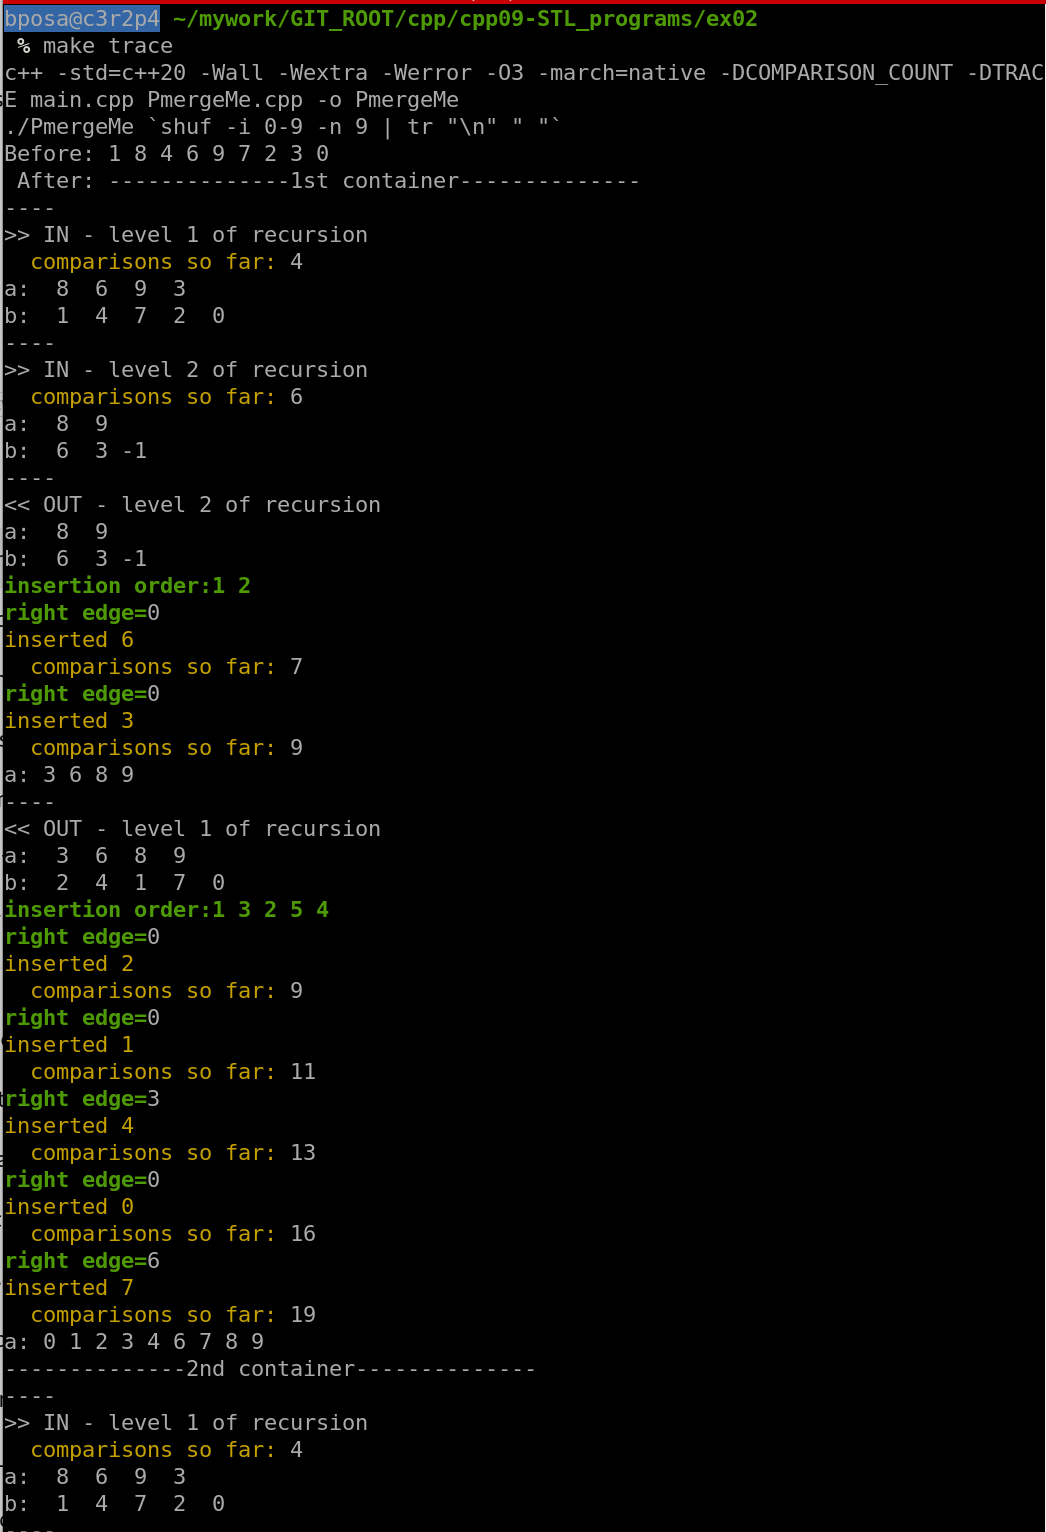
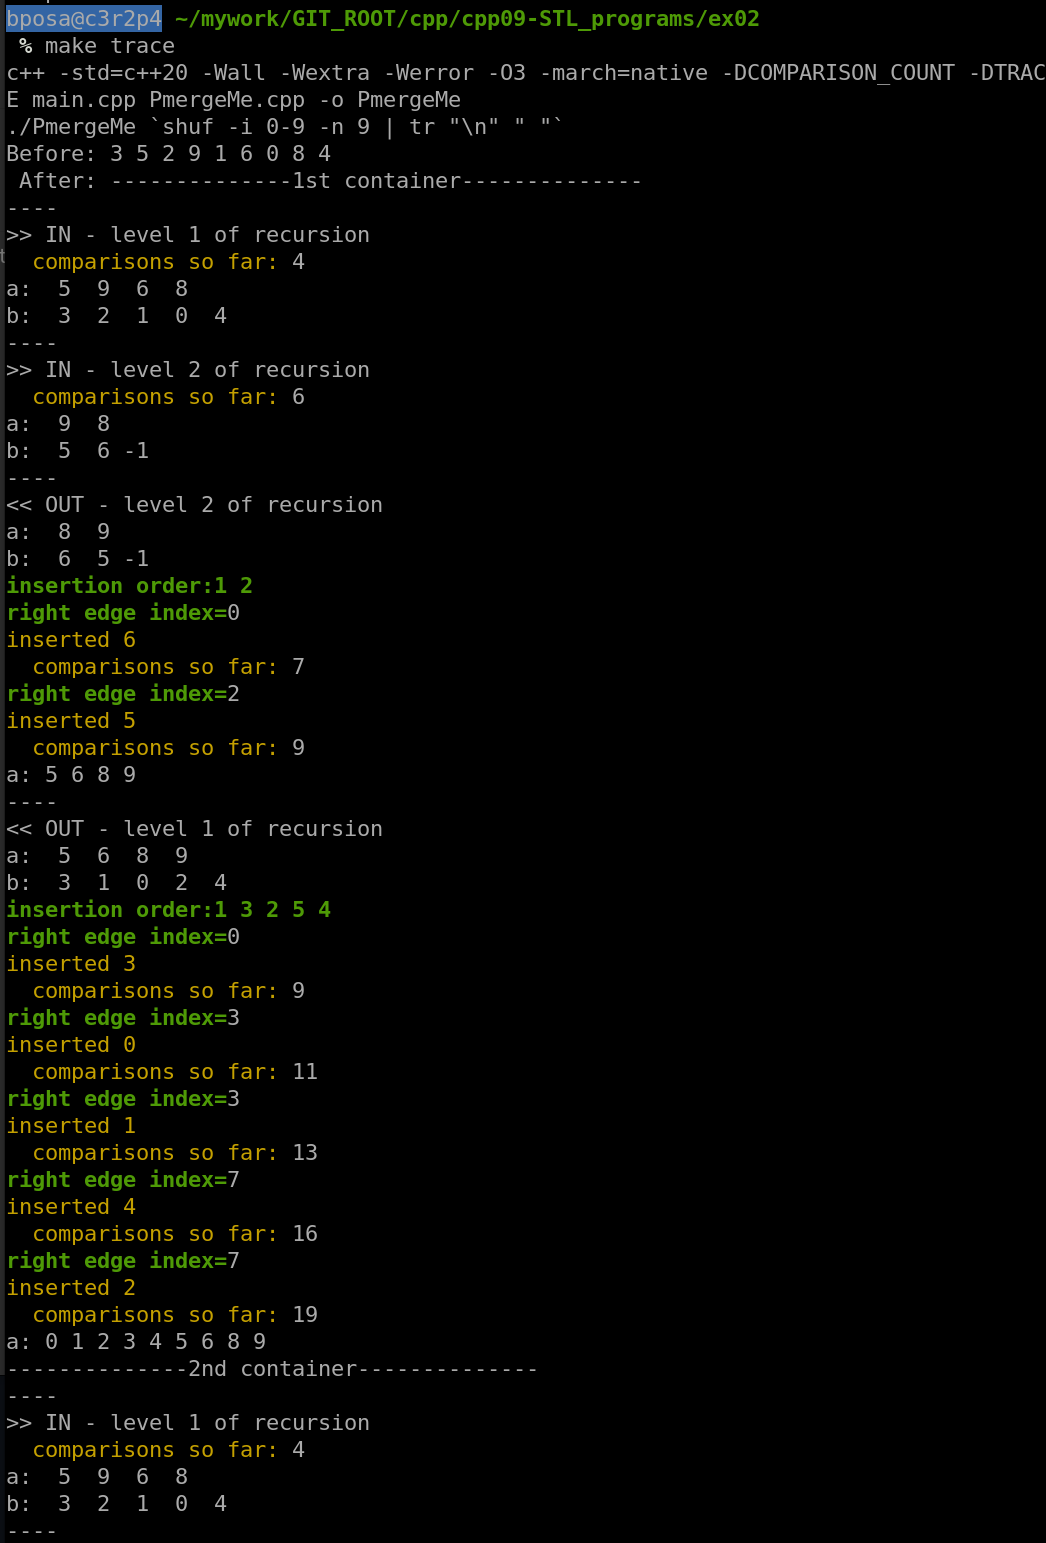
cpp--09 - ex02 readme + better tracing

diff --git a/cpp/cpp09-STL_programs/ex02/PmergeMe.hpp b/cpp/cpp09-STL_programs/ex02/PmergeMe.hpp
@@ -32,7 +32,7 @@ public:
 	template<typename T>	static void		runComparison(std::vector<T>& vec, std::deque<T>& dq);
 	template<typename C>	static double	measureSorting(C& c);
 	template<typename C>	static void		sorter(C& main);
-	template<typename C>	static void 	binaryInsert(typename C::value_type obj, std::size_t right, C& vec);
+	template<typename C>	static void 	binaryInsert(typename C::value_type obj, std::size_t rightEdge, C& vec);
 	template<typename Ptr>	static void		adjustB(std::vector<Ptr>& a, std::vector<std::pair<Ptr, Ptr>>& b);
 	template<typename C>	static bool		isSorted(const C& c);
 	template<typename T>	static bool		isLLessThanR(const T& l, const T& r);

diff --git a/cpp/cpp09-STL_programs/ex02/readme.md b/cpp/cpp09-STL_programs/ex02/readme.md
@@ -29,3 +29,5 @@ And here is the algorithm description from the source:
 ## Notes
 
 I understood from [leske42's great guide](https://github.com/leske42/CPP09) that the best use case for this algorithm would be for sorting elements which are expensive to compare, not simple integers. Following that idea, I understood the same elements might be expensive to move, so I decided to only move their pointers and not the data.
+
+Without comments and trace prints, sorter() has 42 lines :3
